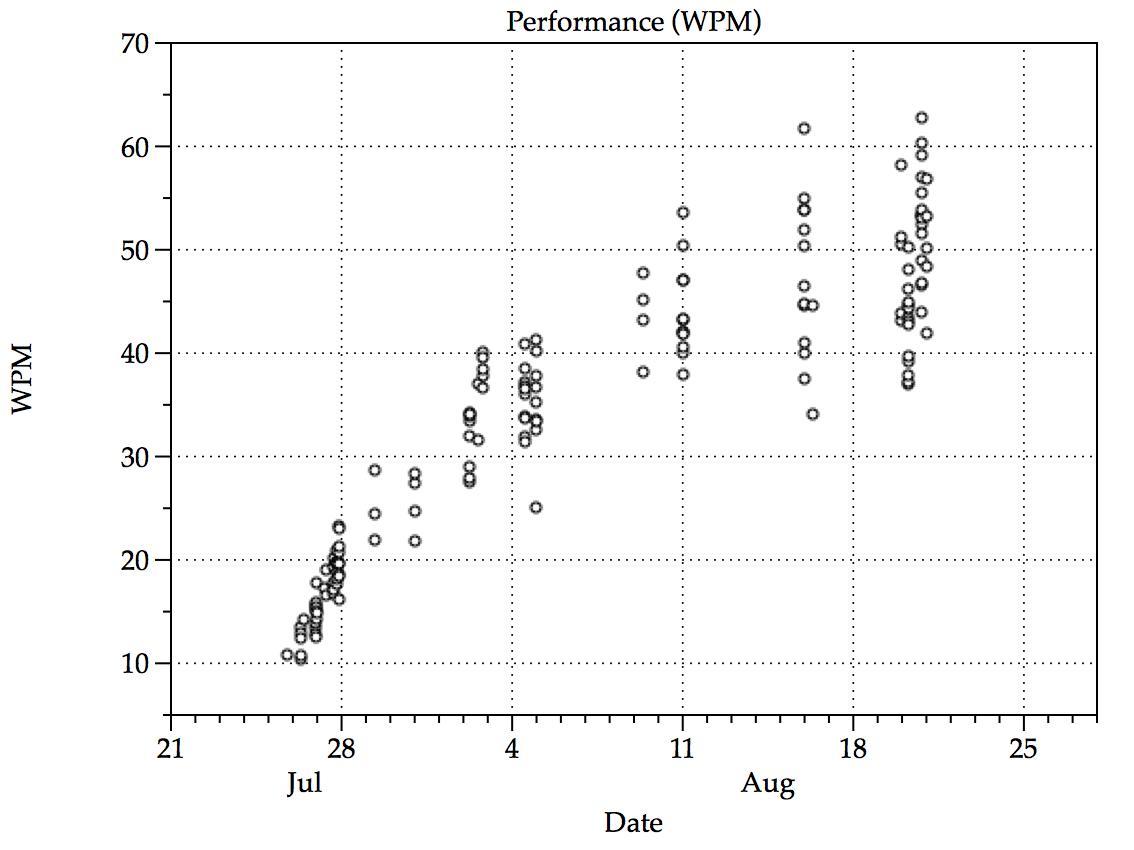
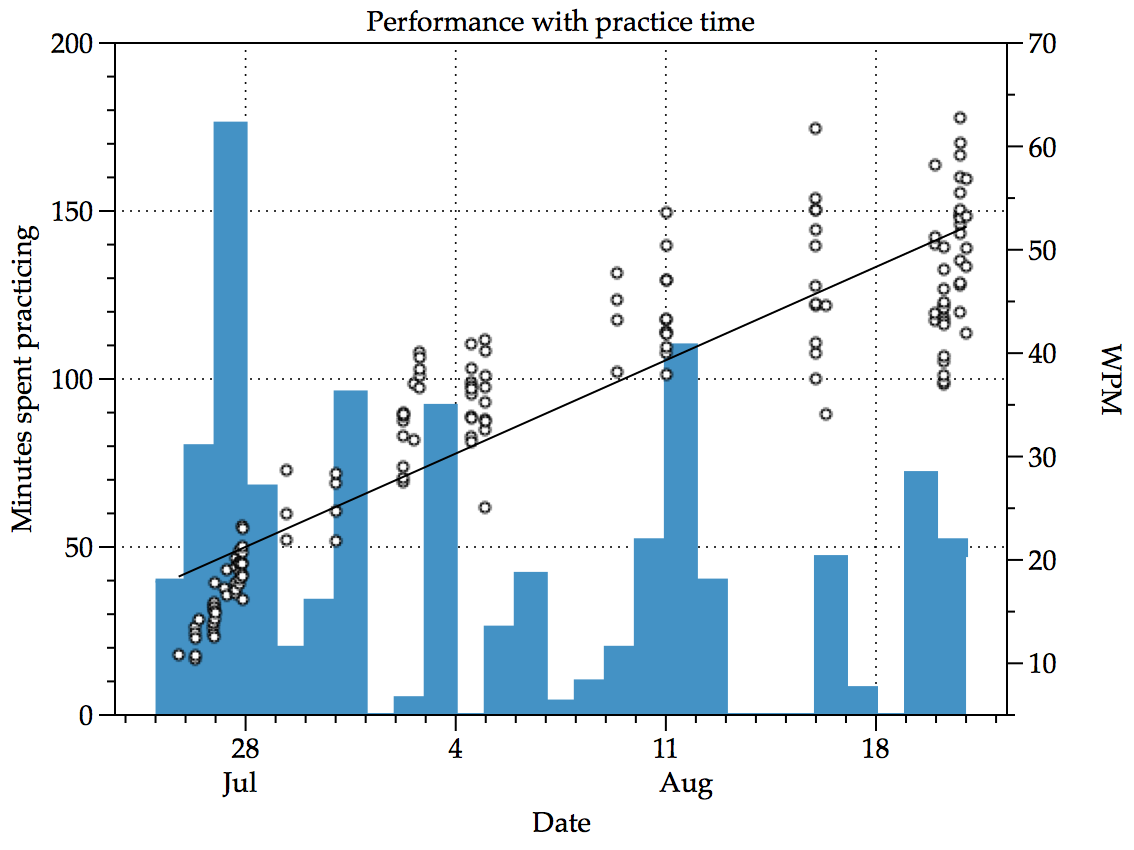
Script to export data from lifelog, update amphetype chart

diff --git a/scripts/export-lifelog.py b/scripts/export-lifelog.py
@@ -1,0 +1,42 @@
+#!/usr/bin/env python
+# coding=utf-8
+from dateutil import parser
+from datetime import datetime
+import subprocess
+
+
+BEGIN = datetime(2013, 7, 24)
+END = datetime(2013, 8, 28)
+
+
+def export():
+    command = [
+        'lifelog',
+        'bucket',
+        'days',
+        'minutes',
+        '#typing'
+    ]
+
+    data = subprocess.check_output(command)
+
+    rows = [row.split('\t') for row in data.splitlines()]
+
+    for row in rows:
+        row[0] = parser.parse(row[0])
+
+    cleaned_rows = [row for row in rows
+                    if row[0] >= BEGIN and row[0] <= END]
+
+    for row in cleaned_rows:
+        row[0] = row[0].date()
+
+    cleaned_rows = ["\t".join([str(r) for r in row])
+                    for row in cleaned_rows]
+
+    print "\n".join(cleaned_rows)
+
+
+if __name__ == '__main__':
+    export()
+
